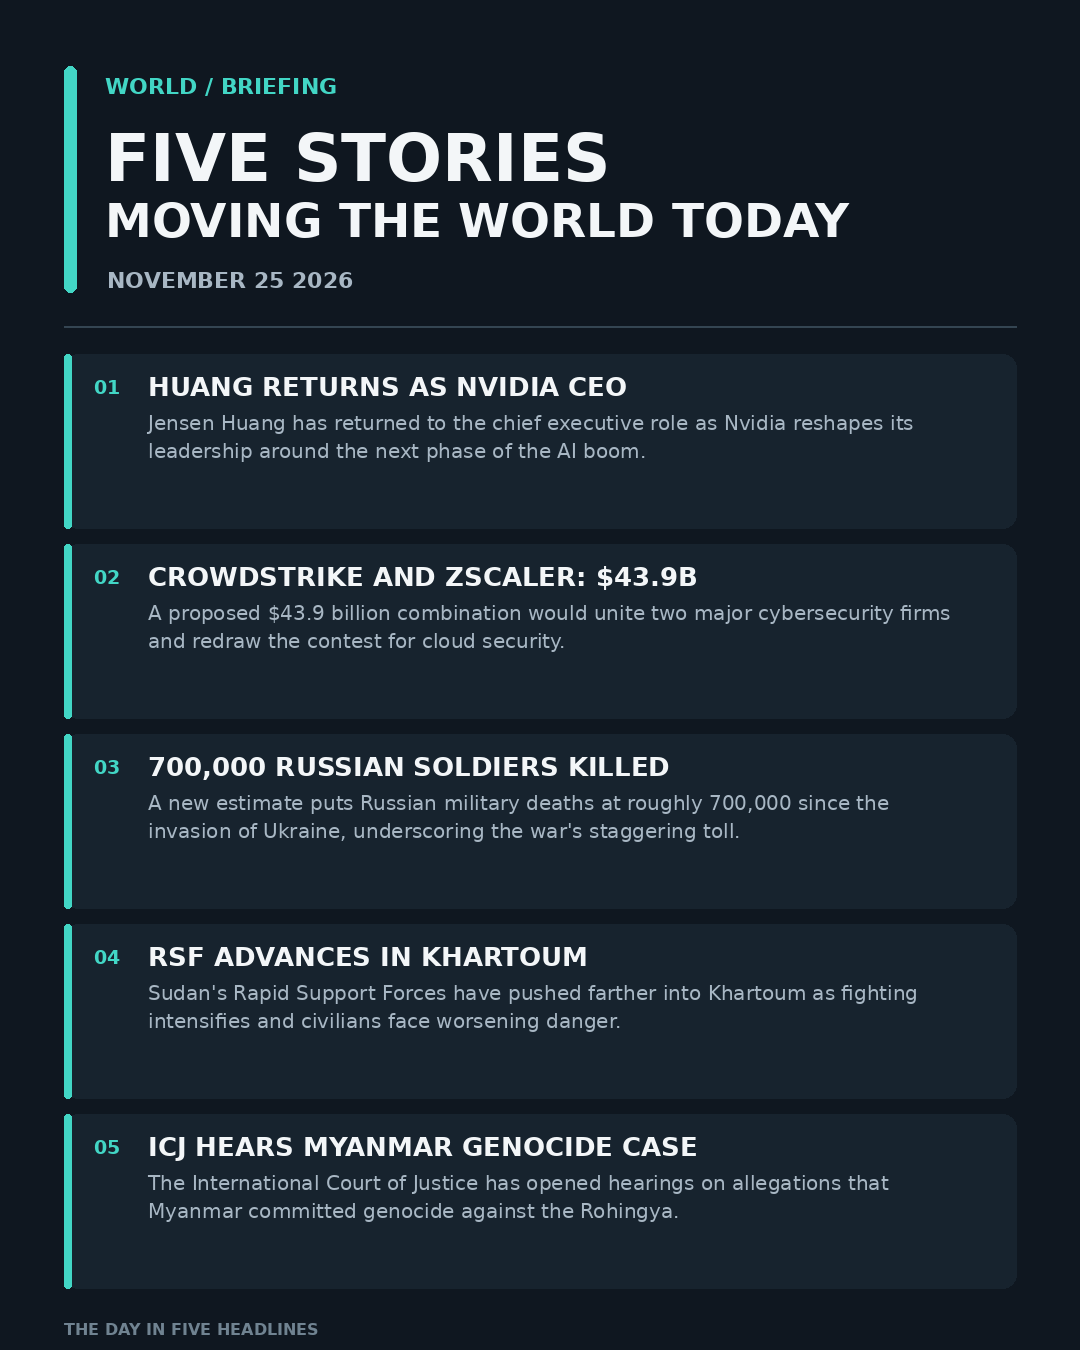
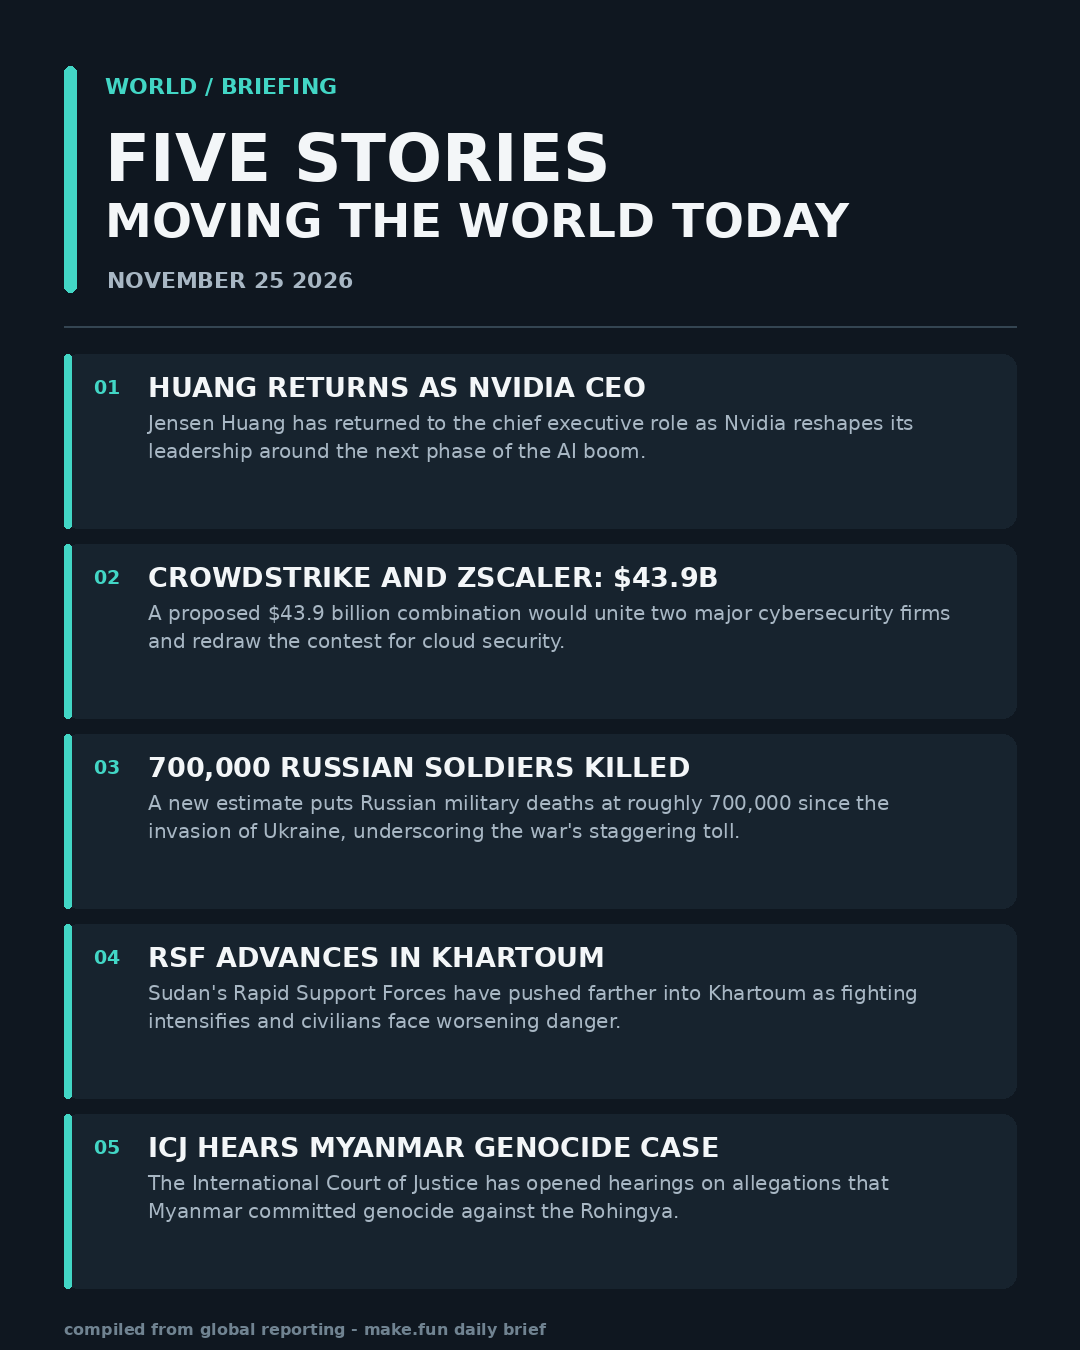
news-image-20261125 revision polish

diff --git a/main.py b/main.py
@@ -54,7 +54,7 @@ def main():
     draw.text((105, 193), "MOVING THE WORLD TODAY", font=font(47, True), fill=INK)
     draw.text((107, 267), "NOVEMBER 25 2026", font=font(22, True), fill=MUTED)
     draw.line((64, 326, 1016, 326), fill="#344552", width=2)
-    head, body = font(26, True), font(20)
+    head, body = font(27, True), font(20)
     y = 354
     for index, (headline, summary) in enumerate(STORIES, 1):
         box = (64, y, 1016, y + 174)
@@ -68,7 +68,7 @@ def main():
         for n, line in enumerate(wrap(draw, summary, body, 820)[:2]):
             draw.text((x, summary_y + n * 28), line, font=body, fill=MUTED)
         y += 190
-    draw.text((64, 1320), "THE DAY IN FIVE HEADLINES", font=font(16, True), fill="#708391")
+    draw.text((64, 1320), "compiled from global reporting - make.fun daily brief", font=font(16, True), fill="#708391")
     output = os.environ.get("MAKEFUN_OUTPUT_DIR", ".")
     os.makedirs(output, exist_ok=True)
     image.save(os.path.join(output, "entry.png"), format="PNG", optimize=True)
